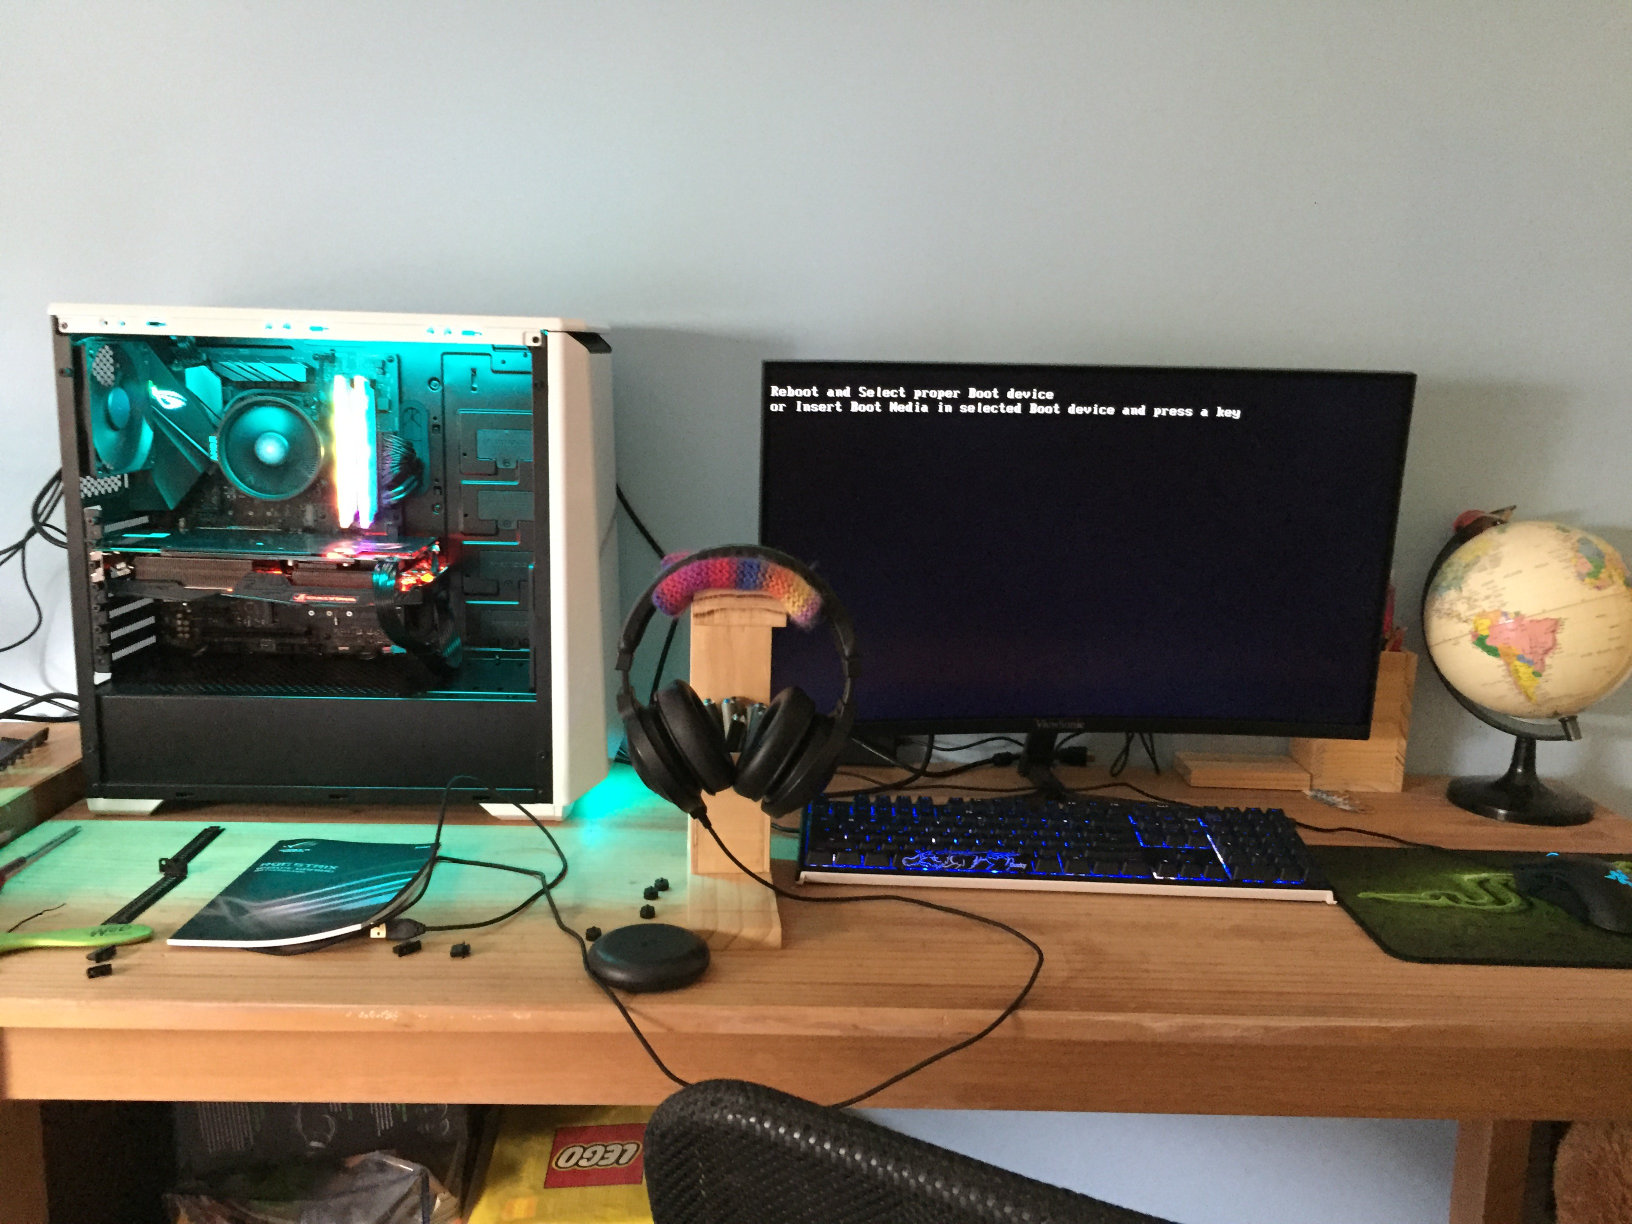
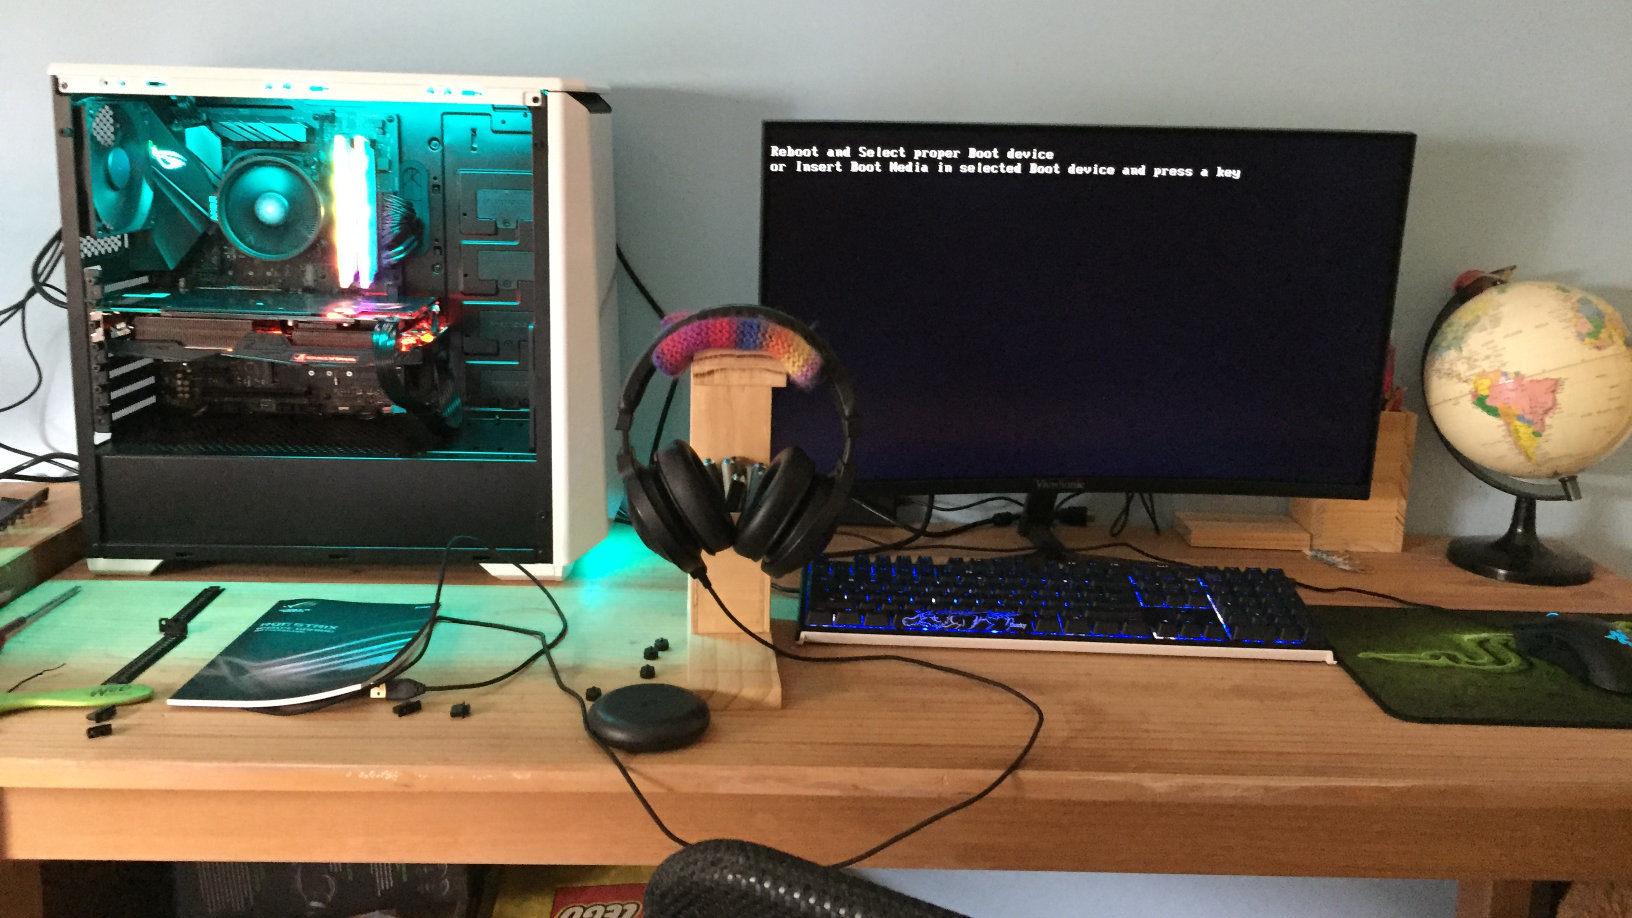
Make image size consistent

diff --git a/websystems.css b/websystems.css
@@ -102,7 +102,7 @@ div.centretext {
 
 img {
     display: block;
-    max-width: 60%;
+    max-width: 500px;
     height: auto;
     margin-left: auto;
     margin-right: auto;
